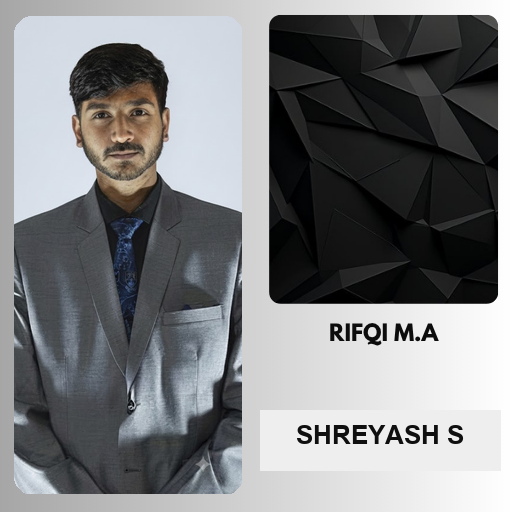
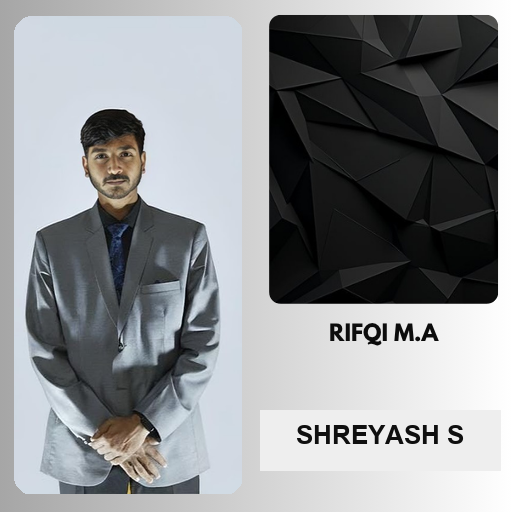
fix: update portrait photo on 3D ID card, set email to shreyashsr2004@gmail.com, and refine chatbot regex matching

Changed region(s): [[0.0, 0.0625, 0.5, 0.9688]]

diff --git a/src/components/AIChatbot.jsx b/src/components/AIChatbot.jsx
@@ -4,34 +4,37 @@ import { useState, useRef, useEffect } from 'react'
 import { motion, AnimatePresence } from 'framer-motion'
 
 const SMART_RESPONSES = {
-  greeting: "Hey there! 👋 Welcome to Shreyash's portfolio. Ask me about his work, skills, or availability!",
-  skills: "Shreyash specializes in **Next.js, Three.js, TypeScript, Python, and AI/ML**. He's also experienced with Node.js, MongoDB, Docker, and WebAssembly.",
-  projects: "His flagship project is **IHateLovePDF** — a privacy-first PDF toolkit at ihatelovepdf.com. He's also built immersive 3D portfolios and AI developer tools.",
-  contact: "Shreyash is currently accepting new projects! 🎯 Use the Contact section below or email shreyash.srivastava.dev@gmail.com.",
-  price: "Pricing depends on project scope and timeline. Reach out via the contact form for a custom quote! 💰",
-  availability: "Shreyash is **available for new projects** and typically responds within 24 hours. 📅",
-  about: "Shreyash is a Full-Stack Developer & Creative Coder who builds immersive digital experiences. 3+ years shipping production apps.",
-  pdf: "**IHateLovePDF** runs 100% client-side — no server uploads, unlimited file size, and blazing fast. Try it at ihatelovepdf.com! 📄",
-  fallback: "Great question! I'd recommend checking the relevant section on the portfolio, or reach out through the contact form. Shreyash would love to chat! 🤝",
+  greeting: "Hey there! 👋 Welcome to Shreyash's portfolio. Ask me anything about his projects, skills, or availability!",
+  skills: "Shreyash specializes in **Next.js, React, Three.js, TypeScript, Python (FastAPI/Flask), and Node.js/Express**. He also works with MongoDB, PostgreSQL, Docker, and AI integrations.",
+  projects: "Shreyash has built several standout projects:\n1. **IHateLovePDF** (ihatelovepdf.com) — A privacy-first, 100% client-side PDF utility suite.\n2. **3D Interactive Portfolios** — Immersive WebGL & Three.js digital experiences.\n3. **Full-Stack SaaS Applications** — High-performance backends with real-time analytics.",
+  work: "Shreyash is a Full-Stack & Backend Engineer with 3+ years of experience building modern web apps, scalable microservices, and creative 3D web experiences. Check out his projects above!",
+  contact: "You can reach Shreyash directly at **shreyashsr2004@gmail.com** ✉ or via LinkedIn & GitHub in the Contact section below!",
+  price: "Project pricing depends on scope and complexity. Feel free to send details via the contact form or email **shreyashsr2004@gmail.com** for a custom quote!",
+  availability: "Shreyash is currently **open for full-time opportunities and freelance projects**! 🚀",
+  about: "Shreyash Srivastava is a passionate Full-Stack Engineer and Creative Coder who loves bridging code with design and performance.",
+  pdf: "**IHateLovePDF** (https://www.ihatelovepdf.com/) is Shreyash's flagship privacy-focused PDF toolkit. All processing is done locally in your browser with zero server uploads! 📄",
+  fallback: "Shreyash is a Full-Stack & Backend Engineer skilled in Next.js, Node.js, Python, and Three.js. You can email him at **shreyashsr2004@gmail.com** or browse his projects below! 🤝",
 }
 
 function getSmartReply(message) {
-  const msg = message.toLowerCase()
-  if (/^(hi|hello|hey|sup|yo|hola|namaste)/.test(msg)) return SMART_RESPONSES.greeting
-  if (/skill|tech|stack|know|language/.test(msg)) return SMART_RESPONSES.skills
-  if (/project|work|portfolio|built|made/.test(msg)) return SMART_RESPONSES.projects
-  if (/contact|hire|email|reach|freelance/.test(msg)) return SMART_RESPONSES.contact
-  if (/price|cost|rate|budget|charge|how much/.test(msg)) return SMART_RESPONSES.price
-  if (/available|free|busy|schedule|when/.test(msg)) return SMART_RESPONSES.availability
-  if (/about|who|tell me/.test(msg)) return SMART_RESPONSES.about
-  if (/pdf|ihatelovepdf|compress|merge/.test(msg)) return SMART_RESPONSES.pdf
+  const msg = message.toLowerCase().trim()
+
+  if (/\b(pdf|ihatelovepdf|compress|merge|convert)\b/.test(msg)) return SMART_RESPONSES.pdf
+  if (/\b(project|projects|work|built|made|portfolio|showcase|app|apps)\b/.test(msg)) return SMART_RESPONSES.projects
+  if (/\b(skill|skills|tech|stack|know|language|framework|tools)\b/.test(msg)) return SMART_RESPONSES.skills
+  if (/\b(contact|hire|email|reach|freelance|touch|mail)\b/.test(msg)) return SMART_RESPONSES.contact
+  if (/\b(price|cost|rate|budget|charge|quote)\b/.test(msg)) return SMART_RESPONSES.price
+  if (/\b(available|availability|free|busy|schedule|open|hiring)\b/.test(msg)) return SMART_RESPONSES.availability
+  if (/\b(about|who|experience|background|bio)\b/.test(msg)) return SMART_RESPONSES.about
+  if (/^\b(hi|hello|hey|sup|yo|hola|namaste|greetings)\b/i.test(msg)) return SMART_RESPONSES.greeting
+
   return SMART_RESPONSES.fallback
 }
 
 export default function AIChatbot() {
   const [open, setOpen] = useState(false)
   const [messages, setMessages] = useState([
-    { role: 'bot', text: "Hi! 👋 I'm Shreyash's AI assistant. Ask me anything about his work!" },
+    { role: 'bot', text: "Hi! 👋 I'm Shreyash's AI assistant. Ask me anything about his work, skills, or projects!" },
   ])
   const [input, setInput] = useState('')
   const [typing, setTyping] = useState(false)
@@ -54,7 +57,6 @@ export default function AIChatbot() {
     setInput('')
     setTyping(true)
 
-    // Try backend first, fall back to local
     let reply
     try {
       const res = await fetch('/api/chat', {
@@ -67,13 +69,12 @@ export default function AIChatbot() {
         reply = data.reply
       }
     } catch {
-      // Backend not available — use local
+      // Backend offline fallback
     }
 
     if (!reply) reply = getSmartReply(text)
 
-    // Simulate typing delay
-    await new Promise((r) => setTimeout(r, 600 + Math.random() * 400))
+    await new Promise((r) => setTimeout(r, 400 + Math.random() * 300))
 
     setTyping(false)
     setMessages((prev) => [...prev, { role: 'bot', text: reply }])
@@ -193,6 +194,7 @@ export default function AIChatbot() {
                     fontSize: 13,
                     lineHeight: 1.6,
                     color: 'var(--text-secondary)',
+                    whiteSpace: 'pre-line',
                   }}
                 >
                   {msg.text}

diff --git a/src/components/sections/contact/ContactSection.jsx b/src/components/sections/contact/ContactSection.jsx
@@ -8,7 +8,7 @@ import Swal from 'sweetalert2'
 export default function ContactSection() {
   const [copied, setCopied] = useState(false)
   const [form, setForm] = useState({ name: '', email: '', message: '' })
-  const emailAddress = 'shreyash.srivastava.dev@gmail.com'
+  const emailAddress = 'shreyashsr2004@gmail.com'
 
   const copyEmail = () => {
     navigator.clipboard.writeText(emailAddress)
